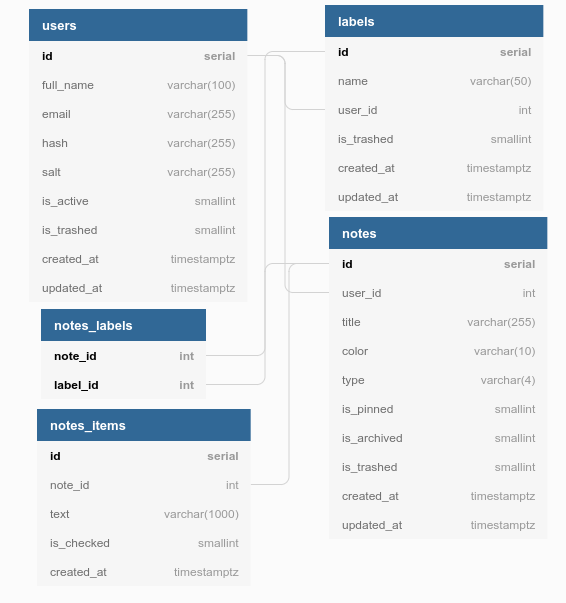
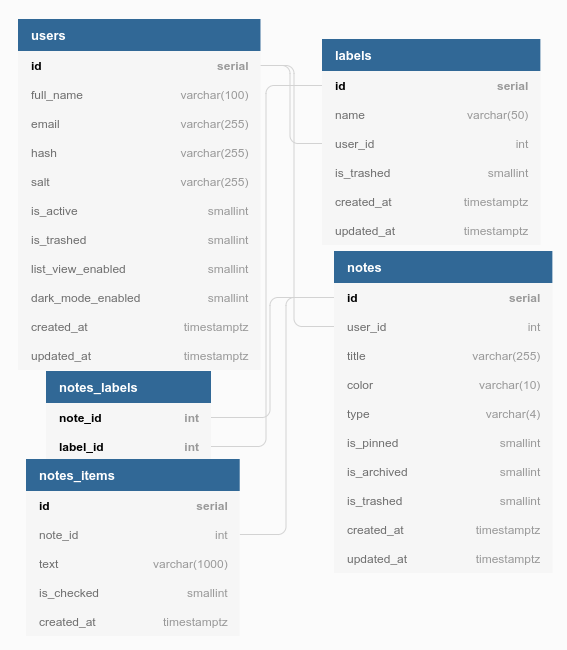
feat: update schema :hammer:

diff --git a/app/model/note.go b/app/model/note.go
@@ -30,9 +30,9 @@ type Note struct {
 	Title      sql.NullString `json:"title"`
 	Color      string         `json:"color"`
 	Type       string         `json:"type"`
-	IsPinned   bool           `json:"is_pinned"`
-	IsArchived bool           `json:"is_archived"`
-	IsTrashed  bool           `json:"is_trashed"`
+	IsPinned   int8           `json:"is_pinned"`
+	IsArchived int8           `json:"is_archived"`
+	IsTrashed  int8           `json:"is_trashed"`
 	CreatedAt  time.Time      `json:"created_at"`
 	UpdatedAt  time.Time      `json:"updated_at"`
 }
@@ -41,7 +41,7 @@ type NotesItem struct {
 	ID        int32     `json:"id"`
 	NoteID    int32     `json:"note_id"`
 	Text      *string   `json:"text"`
-	IsChecked bool      `json:"is_checked"`
+	IsChecked int8      `json:"is_checked"`
 	CreatedAt time.Time `json:"created_at"`
 }
 

diff --git a/app/model/user.go b/app/model/user.go
@@ -9,9 +9,11 @@ type User struct {
 	// password hash
 	Hash string `json:"hash"`
 	// password salt
-	Salt      string    `json:"salt"`
-	IsActive  bool      `json:"is_active"`
-	IsTrashed bool      `json:"is_trashed"`
-	CreatedAt time.Time `json:"created_at"`
-	UpdatedAt time.Time `json:"updated_at"`
+	Salt            string    `json:"salt"`
+	IsActive        int8      `json:"is_active"`
+	IsTrashed       int8      `json:"is_trashed"`
+	ListViewEnabled int8      `json:"list_view_enabled"`
+	DarkModeEnabled int8      `json:"dark_mode_enabled"`
+	CreatedAt       time.Time `json:"created_at"`
+	UpdatedAt       time.Time `json:"updated_at"`
 }

diff --git a/app/model/label.go b/app/model/label.go
@@ -8,7 +8,7 @@ type Label struct {
 	ID        int32     `json:"id"`
 	Name      string    `json:"name"`
 	UserID    int32     `json:"user_id"`
-	IsTrashed bool      `json:"is_trashed"`
+	IsTrashed int8      `json:"is_trashed"`
 	CreatedAt time.Time `json:"created_at"`
 	UpdatedAt time.Time `json:"updated_at"`
 }
